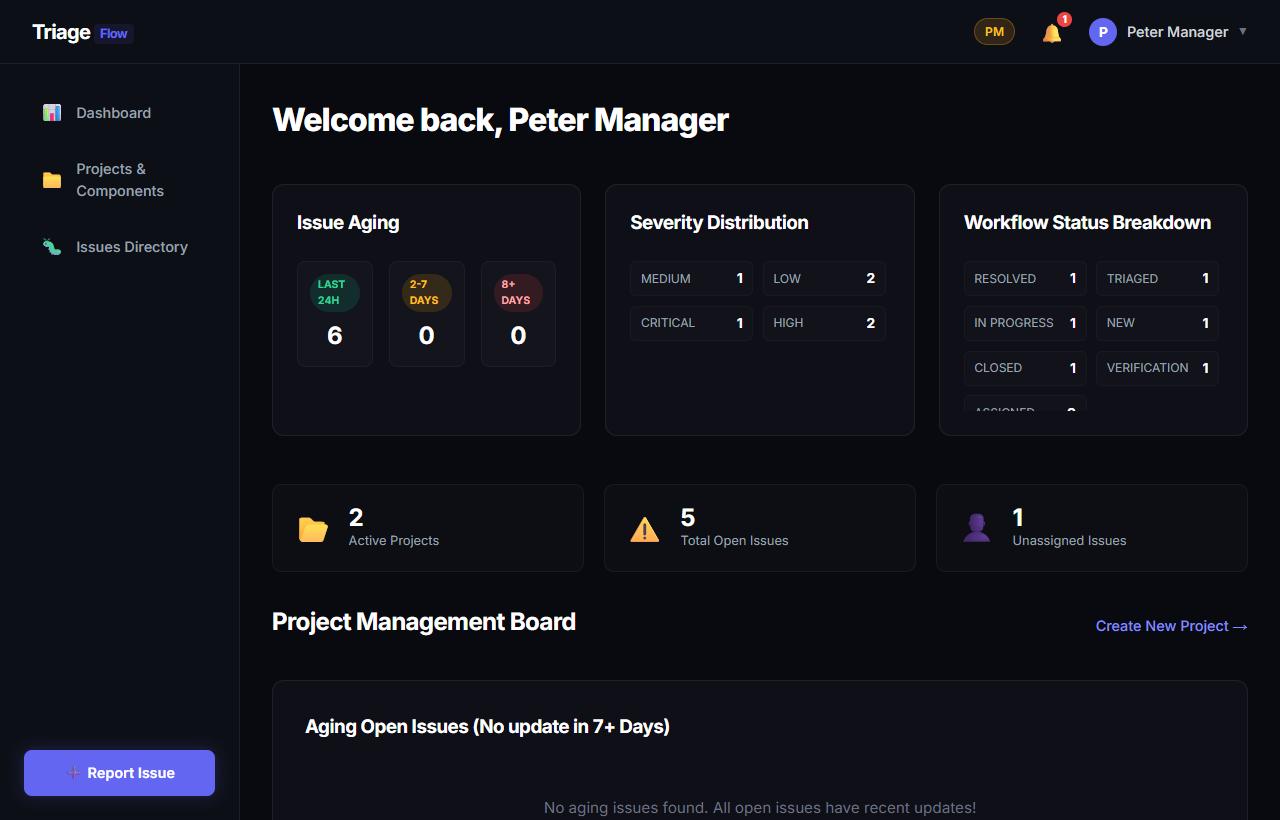
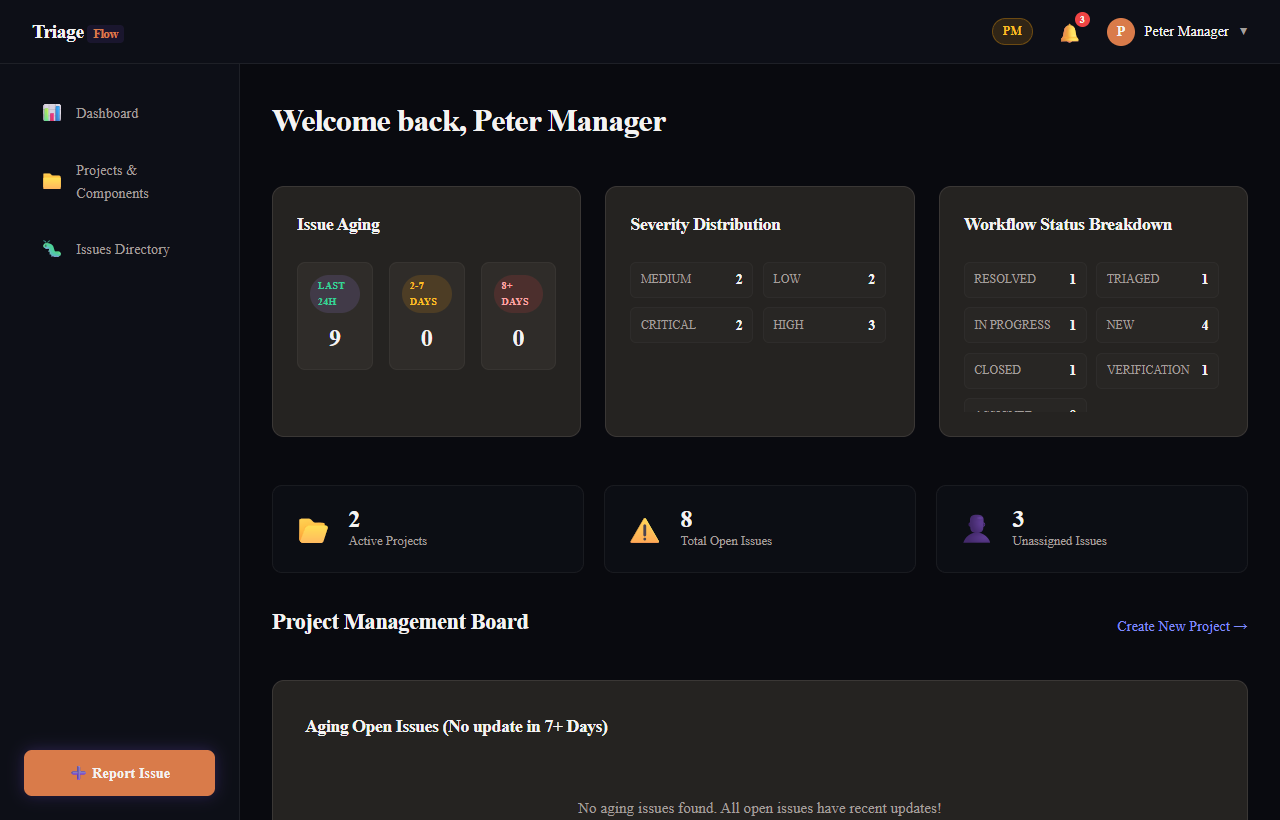
docs: regenerate app screenshots with new terracotta-teal theme and Space Grotesk fonts

diff --git a/scripts/take-screenshots.js b/scripts/take-screenshots.js
@@ -2,7 +2,7 @@ const puppeteer = require('puppeteer');
 const fs = require('fs');
 const path = require('path');
 
-const BASE_URL = 'https://triage-flow-8666bnct3-heer-renish-dedakia-s-projects.vercel.app';
+const BASE_URL = 'https://triage-flow-blond.vercel.app';
 
 async function run() {
   const dir = path.join(__dirname, '..', 'docs', 'screenshots');
